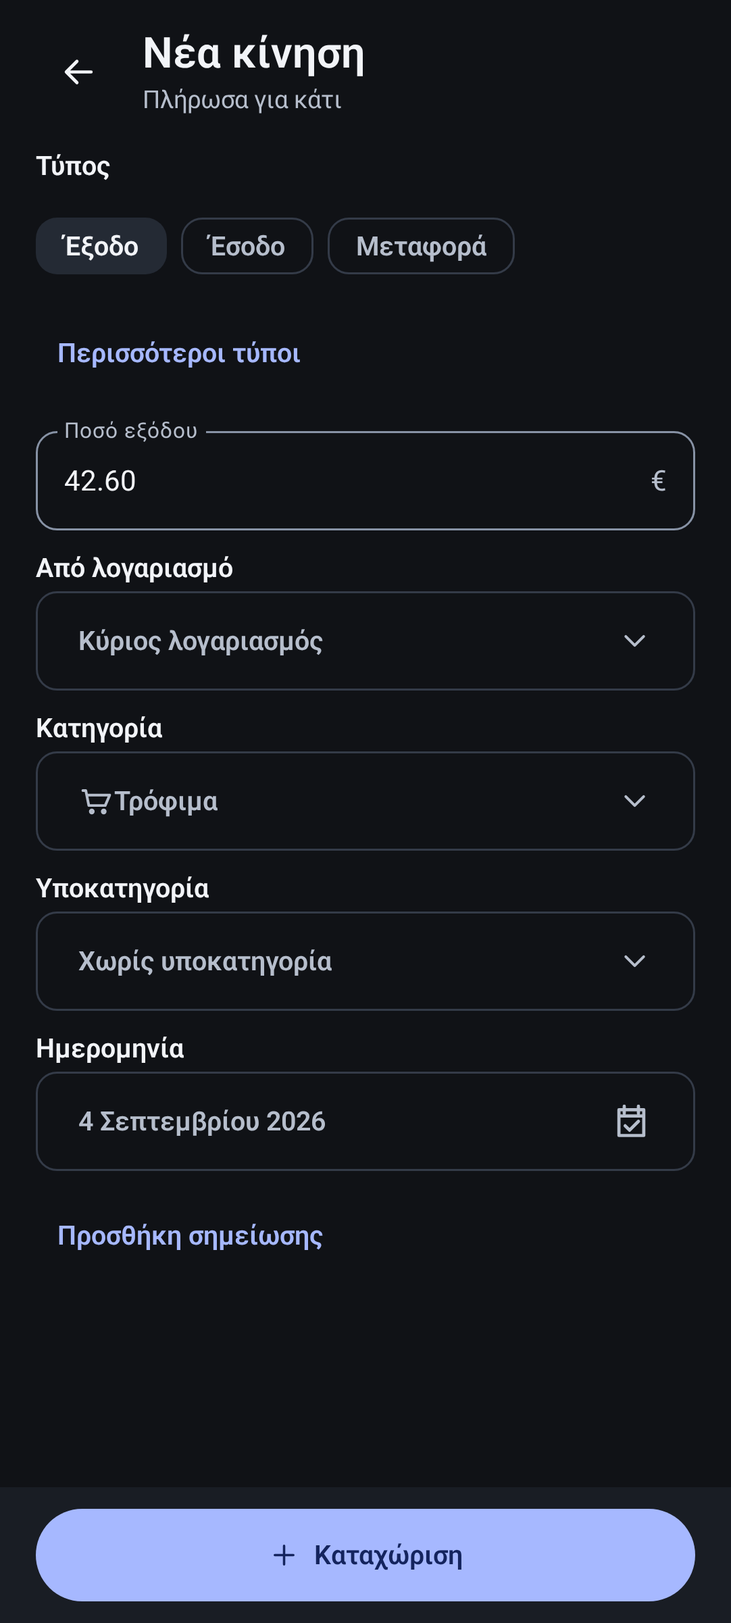
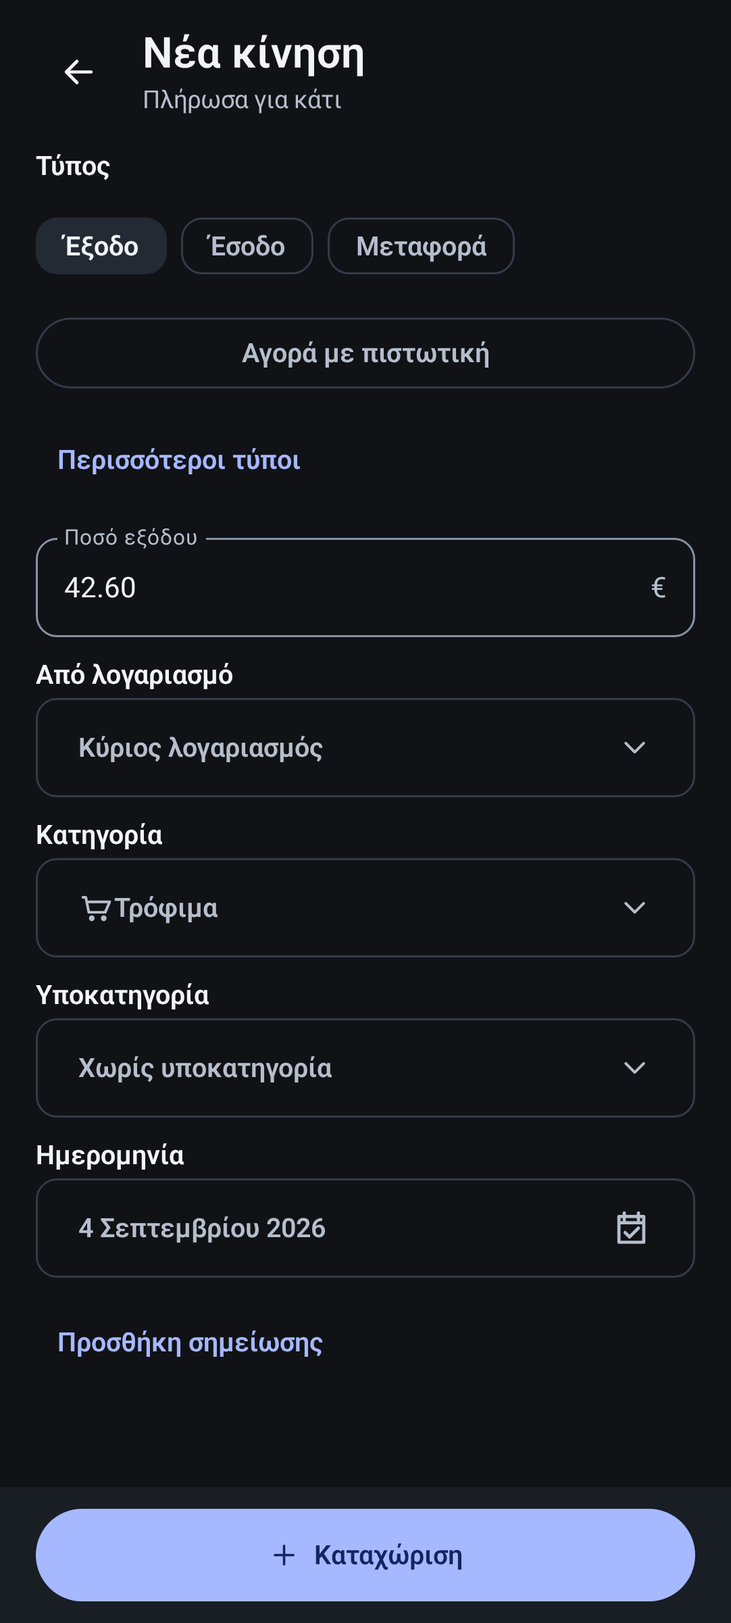
fix(d7): secure Recents snapshots and repair Quick Entry and activity paths
* fix(d7): prevent Recents leaks and validate credit Quick Entry before submit

* fix(d7): persist credit-ledger filters and distinguish lending activity labels

* docs(d7): track active Recents privacy and credit-entry correction PR #459

* docs(d7): regenerate PR branch references in tracked status files

* chore(d7): one-time branch-only import of reviewed Quick Entry golden images

* test(ui): accept visually reviewed Quick Entry credit shortcut goldens

* test(ui): finalize inspected screenshots and remove one-off import workflow

* test(ui): sync public Quick Entry references to reviewed Compose goldens

* test(d7): run Recents privacy helper on main looper and scroll Transfer chip before navigation

---------

diff --git a/app/src/main/java/app/myfinhub/android/feature/quickentry/ProductionQuickEntryScreen.kt b/app/src/main/java/app/myfinhub/android/feature/quickentry/ProductionQuickEntryScreen.kt
@@ -121,30 +121,7 @@ fun ProductionQuickEntryScreen(
     var discardDialogOpen by remember { mutableStateOf(false) }
     val amountFocus = remember { FocusRequester() }
     val savedLocally = state.awaitingSync
-    val declaredAmount = state.amount
-    val validRequiredAmount = if (state.kind == QuickEntryKind.RECONCILIATION) {
-        state.actualBalanceText.toCurrencyCentsOrNull() != null
-    } else {
-        declaredAmount != null && declaredAmount > 0.0 && declaredAmount.isFinite()
-    }
-    val requiredPersonReady = state.kind !in setOf(
-        QuickEntryKind.LENDING, QuickEntryKind.REPAYMENT
-    ) || state.person.isNotBlank()
-    val splitAllocationReady = state.kind != QuickEntryKind.SPLIT || (
-        declaredAmount != null &&
-            declaredAmount > 0.0 &&
-            state.splitRemaining == 0.0 &&
-            state.splitParts.size >= 2 &&
-            state.splitParts.all { part ->
-                val partAmount = part.amount
-                partAmount != null &&
-                    partAmount > 0.0 &&
-                    state.expenseCategories.any { category ->
-                        category.name == part.category &&
-                            (part.subcategory.isBlank() || part.subcategory in category.subcategories)
-                    }
-            }
-        )
+    val canSubmit = remember(state) { state.canSubmitDraft() }
     val requestBack = {
         if (state.dirty && !state.persisted && !savedLocally) discardDialogOpen = true else onBack()
     }
@@ -181,8 +158,8 @@ fun ProductionQuickEntryScreen(
                         savedLocally -> "Καταχωρίστηκε στη συσκευή"
                         else -> "Καταχώριση"
                     },
-                    enabled = validRequiredAmount && requiredPersonReady && splitAllocationReady &&
-                        !mutationInFlight && !state.persisted && !savedLocally,
+                    enabled = canSubmit && !mutationInFlight &&
+                        !state.persisted && !savedLocally,
                     onClick = {
                         if (!mutationInFlight) onAction(QuickEntryAction.Save)
                     },
@@ -228,6 +205,15 @@ fun ProductionQuickEntryScreen(
                             onClick = { onAction(QuickEntryAction.SelectKind(kind)) },
                             label = { Text(kind.label) },
                         )
+                    }
+                }
+                if (state.creditCards.isNotEmpty()) {
+                    OutlinedButton(
+                        onClick = { onAction(QuickEntryAction.SelectKind(QuickEntryKind.CARD_PURCHASE)) },
+                        modifier = Modifier.fillMaxWidth()
+                            .testTag("quick_entry_credit_purchase_shortcut"),
+                    ) {
+                        Text("Αγορά με πιστωτική")
                     }
                 }
                 TextButton(onClick = { advancedMenuOpen = true }) {

diff --git a/app/src/androidTest/java/app/myfinhub/android/feature/quickentry/ProductionQuickEntryScreenTest.kt b/app/src/androidTest/java/app/myfinhub/android/feature/quickentry/ProductionQuickEntryScreenTest.kt
@@ -7,9 +7,12 @@ import androidx.compose.ui.test.assertIsEnabled
 import androidx.compose.ui.test.assertIsNotEnabled
 import androidx.compose.ui.test.hasText
 import androidx.compose.ui.test.junit4.v2.createComposeRule
+import androidx.compose.ui.test.onNodeWithTag
+import androidx.compose.ui.test.performClick
 import androidx.compose.ui.test.onNodeWithText
 import androidx.test.ext.junit.runners.AndroidJUnit4
 import app.myfinhub.android.designsystem.MyFinHubTheme
+import org.junit.Assert.assertEquals
 import org.junit.Assert.assertTrue
 import org.junit.Rule
 import org.junit.Test
@@ -109,6 +112,43 @@ class ProductionQuickEntryScreenTest {
         composeRule.onNodeWithText("Καταχώριση").assertIsNotEnabled()
         composeRule.runOnIdle { state = state.copy(actualBalanceText = "0") }
         composeRule.onNodeWithText("Καταχώριση").assertIsEnabled()
+    }
+
+    @Test
+    fun creditPurchaseShortcutSelectsCanonicalCardPurchaseInsteadOfSalaryExpense() {
+        var state by mutableStateOf(validState(QuickEntryKind.EXPENSE))
+        composeRule.setContent {
+            MyFinHubTheme {
+                ProductionQuickEntryScreen(
+                    state = state,
+                    onAction = { state = reduceQuickEntry(state, it) },
+                    onBack = {},
+                )
+            }
+        }
+        composeRule.onNodeWithTag("quick_entry_credit_purchase_shortcut").performClick()
+        composeRule.runOnIdle {
+            assertEquals(QuickEntryKind.CARD_PURCHASE, state.kind)
+            assertEquals("card-credit", state.cardId)
+        }
+        composeRule.onNodeWithText("Πιστωτική κάρτα").fetchSemanticsNode()
+    }
+
+    @Test
+    fun fullDraftValidationGatesDateCardAndTransferSelections() {
+        var state by mutableStateOf(validState(QuickEntryKind.EXPENSE))
+        composeRule.setContent {
+            MyFinHubTheme {
+                ProductionQuickEntryScreen(state = state, onAction = {}, onBack = {})
+            }
+        }
+        composeRule.onNodeWithText("Καταχώριση").assertIsEnabled()
+        composeRule.runOnIdle { state = state.copy(dateText = "invalid-date") }
+        composeRule.onNodeWithText("Καταχώριση").assertIsNotEnabled()
+        composeRule.runOnIdle { state = validState(QuickEntryKind.CARD_PURCHASE).copy(cardId = "missing") }
+        composeRule.onNodeWithText("Καταχώριση").assertIsNotEnabled()
+        composeRule.runOnIdle { state = validState(QuickEntryKind.TRANSFER).copy(toAccountId = "acc-main") }
+        composeRule.onNodeWithText("Καταχώριση").assertIsNotEnabled()
     }
 
     @Test

diff --git a/app/src/test/java/app/myfinhub/android/app/CanonicalProductProjectionTest.kt b/app/src/test/java/app/myfinhub/android/app/CanonicalProductProjectionTest.kt
@@ -1115,6 +1115,32 @@ class CanonicalProductProjectionTest {
         assertEquals("2026-08-23", refreshed.activityState.dateTo)
     }
 
+
+    @Test
+    fun cardPurchaseFilterSurvivesSyncReprojectionAndRemainsInLedger() {
+        val document = CanonicalFinanceDocument(Json.parseToJsonElement("""
+            {"seed":{"accounts":[{"id":"payroll","kind":"bank","name":"Μισθοδοσία"}]},
+             "state":{"events":[
+               {"id":"payroll-expense","kind":"expense","date":"2026-11-12","amount":3,
+                "accountId":"payroll","note":"Καφές"},
+               {"id":"credit-purchase","kind":"card_purchase","date":"2026-11-12","amount":9,
+                "cardId":"credit-one","note":"Αγορά","creditDelta":-9,
+                "legs":[{"accountId":"credit-card","amount":-9}]}
+             ],"cards":[{"id":"credit-one","bankId":"bank","nickname":"Κάρτα",
+                          "kind":"credit","network":"visa","active":true}]}}
+        """.trimIndent()).jsonObject)
+        val initial = projectCanonicalProduct(document, LocalDate.of(2026, 11, 12))
+        val filtered = initial.activityState.copy(typeFilterId = "card_purchase")
+        assertEquals(listOf("credit-purchase"), filtered.visibleItems.map { it.id })
+        val refreshed = projectCanonicalProduct(
+            document, LocalDate.of(2026, 11, 12),
+            previous = initial.copy(activityState = filtered),
+        )
+        assertEquals("card_purchase", refreshed.activityState.typeFilterId)
+        assertEquals(listOf("credit-purchase"), refreshed.activityState.visibleItems.map { it.id })
+        assertEquals(9.0, refreshed.activityState.visibleExpense, 0.001)
+    }
+
     @Test
     fun everyCategoryDrillDown_reconcilesToItsCanonicalTotal() {
         val projection = projectCanonicalProduct(canonicalFixture(), LocalDate.of(2026, 8, 23))

diff --git a/app/src/androidTest/java/app/myfinhub/android/core/security/RecentTasksPrivacyTest.kt b/app/src/androidTest/java/app/myfinhub/android/core/security/RecentTasksPrivacyTest.kt
@@ -1,0 +1,37 @@
+package app.myfinhub.android.core.security
+
+import android.app.Activity
+import android.os.Build
+import androidx.test.ext.junit.runners.AndroidJUnit4
+import androidx.test.platform.app.InstrumentationRegistry
+import org.junit.Assert.assertEquals
+import org.junit.Assume.assumeTrue
+import org.junit.Test
+import org.junit.runner.RunWith
+
+@RunWith(AndroidJUnit4::class)
+class RecentTasksPrivacyTest {
+    @Test
+    fun api33PlusDisablesTaskSnapshotsBeforeRenderingContent() {
+        assumeTrue(Build.VERSION.SDK_INT >= Build.VERSION_CODES.TIRAMISU)
+        // Android Activity constructs an internal Handler: instantiate on
+        // the UI looper, not on the instrumentation runner's worker thread.
+        // Override the platform call to assert the exact API33+ contract.
+        var enabled: Boolean? = null
+        InstrumentationRegistry.getInstrumentation().runOnMainSync {
+            val host = RecordingActivity()
+            protectRecentTasksSnapshot(host)
+            enabled = host.recentsScreenshotEnabled
+        }
+        assertEquals(false, enabled)
+    }
+
+    private class RecordingActivity : Activity() {
+        var recentsScreenshotEnabled: Boolean? = null
+            private set
+
+        override fun setRecentsScreenshotEnabled(enabled: Boolean) {
+            recentsScreenshotEnabled = enabled
+        }
+    }
+}

diff --git a/app/src/test/java/app/myfinhub/android/feature/quickentry/QuickEntryReducerTest.kt b/app/src/test/java/app/myfinhub/android/feature/quickentry/QuickEntryReducerTest.kt
@@ -46,6 +46,27 @@ class QuickEntryReducerTest {
     }
 
     @Test
+    fun stickySaveGateRejectsInvalidDateAccountCardAndTransfer() {
+        val ordinary = QuickEntryUiState(amountText = "12,50")
+        assertTrue(ordinary.canSubmitDraft())
+        assertFalse(ordinary.copy(dateText = "invalid").canSubmitDraft())
+        assertFalse(ordinary.copy(accountId = "missing").canSubmitDraft())
+
+        val credit = reduceQuickEntry(ordinary, QuickEntryAction.SelectKind(QuickEntryKind.CARD_PURCHASE))
+        assertTrue(credit.canSubmitDraft())
+        assertFalse(credit.copy(cardId = "missing").canSubmitDraft())
+        assertFalse(credit.copy(creditCards = emptyList()).canSubmitDraft())
+
+        val transfer = reduceQuickEntry(ordinary, QuickEntryAction.SelectKind(QuickEntryKind.TRANSFER))
+        assertTrue(transfer.canSubmitDraft())
+        assertFalse(transfer.copy(toAccountId = transfer.fromAccountId).canSubmitDraft())
+
+        val split = reduceQuickEntry(ordinary, QuickEntryAction.SelectKind(QuickEntryKind.SPLIT))
+            .copy(amountText = "12,50")
+        assertFalse(split.canSubmitDraft())
+    }
+
+    @Test
     fun ordinaryEntry_rejectsMissingAmountButAllowsBlankDescription() {
         val invalid = reduceQuickEntry(
             QuickEntryUiState(note = ""),

diff --git a/app/src/main/java/app/myfinhub/android/app/CanonicalProductProjection.kt b/app/src/main/java/app/myfinhub/android/app/CanonicalProductProjection.kt
@@ -392,11 +392,11 @@ val activityItems = buildActivityItems(
             else oldActivity?.ledgerDateTo,
         monthSourceSelected = oldActivity?.monthSourceSelected == true,
         overviewMonthManuallySelected = oldActivity?.overviewMonthManuallySelected == true,
-        // Web transaction type options never include card-only events.
-        // Discard stale pre-parity card filters on reprojection rather than
-        // restoring an invisible selection with permanently empty results.
-        typeFilterId = oldActivity?.typeFilterId?.takeUnless {
-            it == "card_purchase" || it == "card_payment"
+        // The native ledger includes card events, unlike the Web-only list.
+        // Keep a selected card kind across refresh when its events still exist;
+        // drop only missing/stale kinds rather than silently resetting filters.
+        typeFilterId = oldActivity?.typeFilterId?.takeIf { kind ->
+            activityItems.any { it.canonicalKind == kind }
         },
         categoryFilter = oldActivity?.categoryFilter,
         dateFrom = oldActivity?.dateFrom,

diff --git a/app/src/androidTest/java/app/myfinhub/android/ActivityQuickEntryTest.kt b/app/src/androidTest/java/app/myfinhub/android/ActivityQuickEntryTest.kt
@@ -43,7 +43,11 @@ class ActivityQuickEntryTest {
         // Exercise the real scrollable form instead of assuming it starts visible.
         composeRule.onNodeWithText("Ημερομηνία").performScrollTo().assertIsDisplayed()
 
-        composeRule.onNodeWithText("Μεταφορά").performClick()
+        // After scrolling to the date, the chip may be clipped. Scroll it
+        // back into the viewport before tapping, then assert kind changed;
+        // "Από λογαριασμό" also exists for ordinary expenses.
+        composeRule.onNodeWithText("Μεταφορά").performScrollTo().performClick()
+        composeRule.onNodeWithText("Ποσό μεταφοράς").assertIsDisplayed()
         // Fields are in a scrollable form; the destination can start offscreen
         // after navigating through the date input on compact emulator viewports.
         composeRule.onNodeWithText("Από λογαριασμό").performScrollTo().assertIsDisplayed()

diff --git a/app/src/main/java/app/myfinhub/android/MainActivity.kt b/app/src/main/java/app/myfinhub/android/MainActivity.kt
@@ -5,10 +5,13 @@ import androidx.activity.compose.setContent
 import androidx.activity.enableEdgeToEdge
 import androidx.fragment.app.FragmentActivity
 import app.myfinhub.android.app.MyFinHubRoot
+import app.myfinhub.android.core.security.protectRecentTasksSnapshot
 
 class MainActivity : FragmentActivity() {
     override fun onCreate(savedInstanceState: Bundle?) {
         super.onCreate(savedInstanceState)
+        // The task snapshot can be captured before ON_STOP locks the owner session.
+        protectRecentTasksSnapshot(this)
         // Edge-to-edge system bar insets/background are owned by the theme-aware Compose root.
         // Applying top padding before MyFinHubRoot left a white strip in manually selected dark mode.
         enableEdgeToEdge()

diff --git a/app/src/main/java/app/myfinhub/android/core/security/RecentTasksPrivacy.kt b/app/src/main/java/app/myfinhub/android/core/security/RecentTasksPrivacy.kt
@@ -1,0 +1,19 @@
+package app.myfinhub.android.core.security
+
+import android.app.Activity
+import android.os.Build
+import android.view.WindowManager
+
+/**
+ * Disable Recents thumbnails before the first sensitive frame can be composed.
+ * Android 13+ keeps user-initiated screenshots of non-secret views available;
+ * the separate card-vault FLAG_SECURE leases remain in force while revealed.
+ */
+internal fun protectRecentTasksSnapshot(activity: Activity) {
+    if (Build.VERSION.SDK_INT >= Build.VERSION_CODES.TIRAMISU) {
+        activity.setRecentsScreenshotEnabled(false)
+    } else {
+        // No per-task snapshot API before 33. Prefer privacy to screenshots.
+        activity.window.addFlags(WindowManager.LayoutParams.FLAG_SECURE)
+    }
+}

diff --git a/app/src/main/java/app/myfinhub/android/feature/quickentry/QuickEntryUiState.kt b/app/src/main/java/app/myfinhub/android/feature/quickentry/QuickEntryUiState.kt
@@ -165,6 +165,14 @@ data class QuickEntryUiState(
         get() = splitParts.mapNotNull { it.amountText.toCurrencyCentsOrNull() }.sum()
 }
 
+/**
+ * The sticky Save control must follow the SAME pure validation as the Save action:
+ * invalid dates, stale account/card identities, transfers and incomplete splits
+ * must never advertise a submission that will be refused immediately.
+ */
+internal fun QuickEntryUiState.canSubmitDraft(): Boolean =
+    validateAndPreview(this).validationMessage == null
+
 sealed interface QuickEntryAction {
     data class SelectKind(val kind: QuickEntryKind) : QuickEntryAction
     data class AmountChanged(val value: String) : QuickEntryAction

diff --git a/app/src/main/java/app/myfinhub/android/feature/activity/ActivityS3Screens.kt b/app/src/main/java/app/myfinhub/android/feature/activity/ActivityS3Screens.kt
@@ -705,6 +705,8 @@ private fun ActivityFlatLedgerRow(
         item.pendingSync -> item.pendingLabel ?: "Εκκρεμεί συγχρονισμός"
         item.isInternalTransfer() -> if (realWebRow)
             "${item.typeLabel} · ${item.accountLabel}" else "Εσωτερική μεταφορά"
+        item.canonicalKind == "lending" || item.canonicalKind == "repayment" ->
+            "${item.typeLabel} · ${item.accountLabel}"
         item.canonicalKind == "card_purchase" || item.canonicalKind == "card_payment" ->
             listOfNotNull(
                 item.typeLabel,

diff --git a/STATUS.md b/STATUS.md
@@ -11,7 +11,7 @@
 Issue #155 — **Reconcile Android finance contracts and restore web-parity Home and cards**
 State: `in_progress`
 
-Actual owner Galaxy S24 Ultra video confirms v1.0.0-rc15/10014 installed and finance GET /api/data HTTP 400 INVALID_DATA persisted; bounded safe request UUID a953c405-fa80-4ae1-9762-c1c3b214321e. Owner D7 acceptance REJECTED. Read-only live Supabase inspection 2026-11-12: 9 card_purchase (latest event date 2026-09-07), 8 card_payment (latest 2026-09-22), and two 2026-11-12 expense rows with neither cardId nor credit funding; these do not establish that the owner's two expected credit purchases were saved correctly. Latest database migration is October 2026. No live finance record was changed. Android-only D7 corrective PR #456, exact head 0be87bda1812eef2a77ac304f1b354719fdfcba8, passed tracking-verify, android-verify, screenshot-regression, both S24 emulator shards and s24-ultra-target-instrumented; squash merged into develop as 73961931510a8fc084e3f2a93b3b7444230e5526 on 2026-11-12. It restores authenticated encrypted local finance after rejected GET, fences remote money writes, retains queued mutations and re-locks on ON_STOP. The server-side cause of HTTP400 remains unverified; no Web/backend modification. Locked Home available total remains CASH+PAYROLL only and three real-history primary cards remain intact. Signed rc16/10015 has been published but owner S24 in-place install and D7 acceptance remain pending; deploy D7 6/8, Web parity W6.4 5/6 and 23/24, D8 separate. Release-source PR #457 passed all six exact-head Android/UI gates with credit purchase regression and repaired fixture/scroll tests; protected production rc16/10015 run #43304931439 SUCCESS on 2026-11-12, signed APK published to private production/10015/MyFinHub-10015.apk and GitHub prerelease. Published SHA-256 199a263c6dadc67ec2c40b14671a6543b6a13e15d53425b14992d2e4fc2c2556. Source PR #457 squash merged after publication to develop as 78e6ade7da2bc9b3a4dabfa028c51357d90aa9a3.
+Actual owner Galaxy S24 Ultra video confirms v1.0.0-rc15/10014 installed and finance GET /api/data HTTP 400 INVALID_DATA persisted; bounded safe request UUID a953c405-fa80-4ae1-9762-c1c3b214321e. Owner D7 acceptance REJECTED. Read-only live Supabase inspection 2026-11-12: 9 card_purchase (latest event date 2026-09-07), 8 card_payment (latest 2026-09-22), and two 2026-11-12 expense rows with neither cardId nor credit funding; these do not establish that the owner's two expected credit purchases were saved correctly. Latest database migration is October 2026. No live finance record was changed. Android-only D7 corrective PR #456, exact head 0be87bda1812eef2a77ac304f1b354719fdfcba8, passed tracking-verify, android-verify, screenshot-regression, both S24 emulator shards and s24-ultra-target-instrumented; squash merged into develop as 73961931510a8fc084e3f2a93b3b7444230e5526 on 2026-11-12. It restores authenticated encrypted local finance after rejected GET, fences remote money writes, retains queued mutations and re-locks on ON_STOP. The server-side cause of HTTP400 remains unverified; no Web/backend modification. Locked Home available total remains CASH+PAYROLL only and three real-history primary cards remain intact. Signed rc16/10015 has been published but owner S24 in-place install and D7 acceptance remain pending; deploy D7 6/8, Web parity W6.4 5/6 and 23/24, D8 separate. Release-source PR #457 passed all six exact-head Android/UI gates with credit purchase regression and repaired fixture/scroll tests; protected production rc16/10015 run #43304931439 SUCCESS on 2026-11-12, signed APK published to private production/10015/MyFinHub-10015.apk and GitHub prerelease. Published SHA-256 199a263c6dadc67ec2c40b14671a6543b6a13e15d53425b14992d2e4fc2c2556. Source PR #457 squash merged after publication to develop as 78e6ade7da2bc9b3a4dabfa028c51357d90aa9a3. Following owner report that financial information is visible in Samsung Recents despite ON_STOP biometric re-lock, Android-only PR #459 branch android/d7-recents-privacy-quickentry-activity-20261112 has AUTHORED (NOT YET CI/PHYSICAL VERIFIED) early Activity API33+ Recents snapshot prevention with pre-33 FLAG_SECURE fallback; pure Save/reducer validation agreement; visible credit-purchase shortcut; preservation of canonical card filters on Activity refresh; lending/repayment account labels; focused unit and instrumentation regressions. Three Quick Entry screenshots (light, dark, large-font) were regenerated and visually reviewed from the real Compose renderer and accepted as updated golden references; exact-head CI for 45aaeea passed tracking-verify, android-verify and screenshot-regression; the two independent S24 emulator shards exposed two real instrumentation issues: the new privacy test constructed an Activity off the main looper, and the Activity quick-entry navigation test tapped a clipped Transfer chip after scrolling. Both tests were repaired in the same PR without omitting coverage; the corrected final-head CI and owner physical S24 verification remain pending. Release rc16/10015 DOES NOT contain these new changes. No server/Web, Supabase, or installed app state changed. D7/W6.4 open.
 
 ## Current production candidate
 
@@ -21,8 +21,8 @@ Protected production release run #43304931439 SUCCESS on 2026-11-12 at 21:01 UTC
 
 ## Next
 
-1. D7 owner physical S24 acceptance is next: in-place install existing-signer release 1.0.0-rc16/10015 OVER rc15 without uninstall or clearing app data. Verify login/PIN/biometric state and private card vault retention; authenticated encrypted cached finance on GET400, offline transaction creation/close/relaunch/reconnect without loss, double-entry or blind writes, background/cold-start biometric or PIN relock, card purchases and CASH+PAYROLL Home balance. Preserve and report physical evidence; do not infer owner approval from CI or release.
-2. Production backend GET /api/data HTTP400 INVALID_DATA remains unresolved; historical Vercel Hobby runtime logs were out of retention and Supabase logs provided no correlation for safe UUID a953c405-fa80-4ae1-9762-c1c3b214321e. Investigate with authorized fresh server validation evidence, without modifying Web/backend without separate approval. Two 2026-11-12 expense rows are not verified credit purchases; never reclassify live entries blindly. D7/W6.4 remain OPEN; D8 stable release is independent.
+1. Review PR #459 Android-only owner video corrections on exact final head: Android 13+ Recents thumbnails must not leak finance during or before ON_STOP biometric relock, preserving independently enforced secure card details. Check Quick Entry shortcut selects card_purchase rather than payroll expense, Save button matches canonical reducer validation, Activity card filters survive refresh and lending amounts retain correct accounting semantics. Complete tracking-verify, Android CI, screenshot regression, both S24 shards and aggregate; repair any failing gate in the same PR, never weaken tests or claim physical acceptance.
+2. After PR #459 is validated and merged, distribute only via separately gated signed release authorization, preserve installed local data and verify privacy Recents/biometric, offline replay, card purchase history on physical owner S24. Existing published rc16 is older than PR #459 and remains not owner-accepted. Backend GET /api/data HTTP400 INVALID_DATA root cause and two 2026-11-12 misclassified/unlinked expenses remain unresolved; no blind production reclassification, no Web/backend changes without explicit approval. D7 6/8, W6.4 5/6 and 23/24, D8 separate.
 
 ## Non-negotiable constraints
 
@@ -63,7 +63,7 @@ Evidence-backed release milestones, not percent of code written.
 | D8 Production-signed release and deployment | pending |
 
 Current: D7
-Next: D7 OPEN at 6/8: physical owner rc15 rejected for GET400 INVALID_DATA. Android fix #456 merged; follow-up source PR #457 passed all exact-head checks, protected signed rc16/10015 run #43304931439 published to private update storage and GitHub prerelease, and #457 merged to develop after publication. Owner S24 in-place install and validation of authenticated finance cache, queued offline writes, biometric/PIN relock, card history and retained vault are still missing. Backend GET400 and disputed card purchase root cause unverified; no live finance edits. D8 separate.
+Next: D7 OPEN 6/8: owner reported a new privacy regression: finance remains visible in Samsung Recents when background biometric relock was added. PR #459 authored Android-only early task snapshot prevention, credit quick-entry shortcut and full pre-submit validation, card filter preservation, lending labels and tests; initial exact-head tracking/Android/screenshot gates passed; two deterministic S24 test failures were repaired (privacy-test main looper, scroll-before-click Transfer navigation). Corrected exact-head CI and physical owner S24 verification PENDING. Published rc16/10015 does not contain #459. Backend GET400, local-offline acceptance, disputed Nov12 card transactions and D8 remain separate and unresolved; no production finance edits.
 
 
 ## Active Web parity progress
@@ -72,10 +72,10 @@ Next: D7 OPEN at 6/8: physical owner rc15 rejected for GET400 INVALID_DATA. Andr
 
 Evidence-backed current progress, separate from historical September redesign.
 
-Issue #155, no open PR, branch develop
-Current W6.4: 2026-11-12 rc15 owner S24 physical test failed GET /api/data HTTP400 INVALID_DATA (safe UUID a953c405-fa80-4ae1-9762-c1c3b214321e). PR #456 encrypted cache recovery, safe write fence, biometric background lock passed exact-head CI and merged develop. Release-source PR #457 with credit Quick Entry regression passed all six required checks at c1ba84b95e6e3cde6a93c9ff123170a9e223a5fb; protected production signed rc16/10015 run #43304931439 SUCCESS and GitHub/private-channel published; source PR #457 merged develop 78e6ade7da2bc9b3a4dabfa028c51357d90aa9a3 after release. No physical rc16 installation/acceptance. Backend GET400 remains unresolved; two November 12 expense rows not linked to card. D7 6/8, W6.4 5/6 23/24 and D8 independent.
+Issue #155, PR #459, branch android/d7-recents-privacy-quickentry-activity-20261112
+Current W6.4: 2026-11-12 rc15 owner S24 physical test failed GET /api/data HTTP400 INVALID_DATA (safe UUID a953c405-fa80-4ae1-9762-c1c3b214321e). PR #456 encrypted cache recovery, safe write fence, biometric background lock passed exact-head CI and merged develop. Release-source PR #457 with credit Quick Entry regression passed all six required checks at c1ba84b95e6e3cde6a93c9ff123170a9e223a5fb; protected production signed rc16/10015 run #43304931439 SUCCESS and GitHub/private-channel published; source PR #457 merged develop 78e6ade7da2bc9b3a4dabfa028c51357d90aa9a3 after release. No physical rc16 installation/acceptance. Backend GET400 remains unresolved; two November 12 expense rows not linked to card. D7 6/8, W6.4 5/6 23/24 and D8 independent. Owner further reported finance exposed in Samsung Recents; PR #459 authored Android-only early Activity task-snapshot security fix and Quick Entry/Activity UX corrections with tests, first exact-head Android/tracking/screenshot gates succeeded but both S24 instrumentation shards failed on the two documented test defects; both are repaired in PR #459, retest on the corrected exact head pending. Existing rc16 remains published but owner physical acceptance pending.
 Plan docs/WEB_ANDROID_RECONCILIATION_PLAN.md
-Next Verify owner physical same-signer in-place rc16/10015 S24 install, preservation of sensitive local state, authenticated cache fallback under API 400, pending offline work through restart and safe sync, biometric/PIN background/cold-start and credit history. Diagnose backend HTTP400 with fresh authorized evidence, no blind finance writes or unverified transaction reclassification. D7/W6.4 remain open, D8 separate.
+Next Finish and review #459 as Android-only security/UX correction batch; require exact-head tracking, Android, screenshot, both S24 shards plus aggregate success before merge. Owner must physically verify Samsung Recents does not show amounts, biometric/PIN still re-locks, no blank/black navigation regression, credit purchase history and offline durability after separately gated signed in-place update. Backend HTTP400 and two unlinked expenses need fresh safe evidence, no Web/live-data changes.
 
 | Implementation | Completed | Outstanding |
 |---|---|---|
